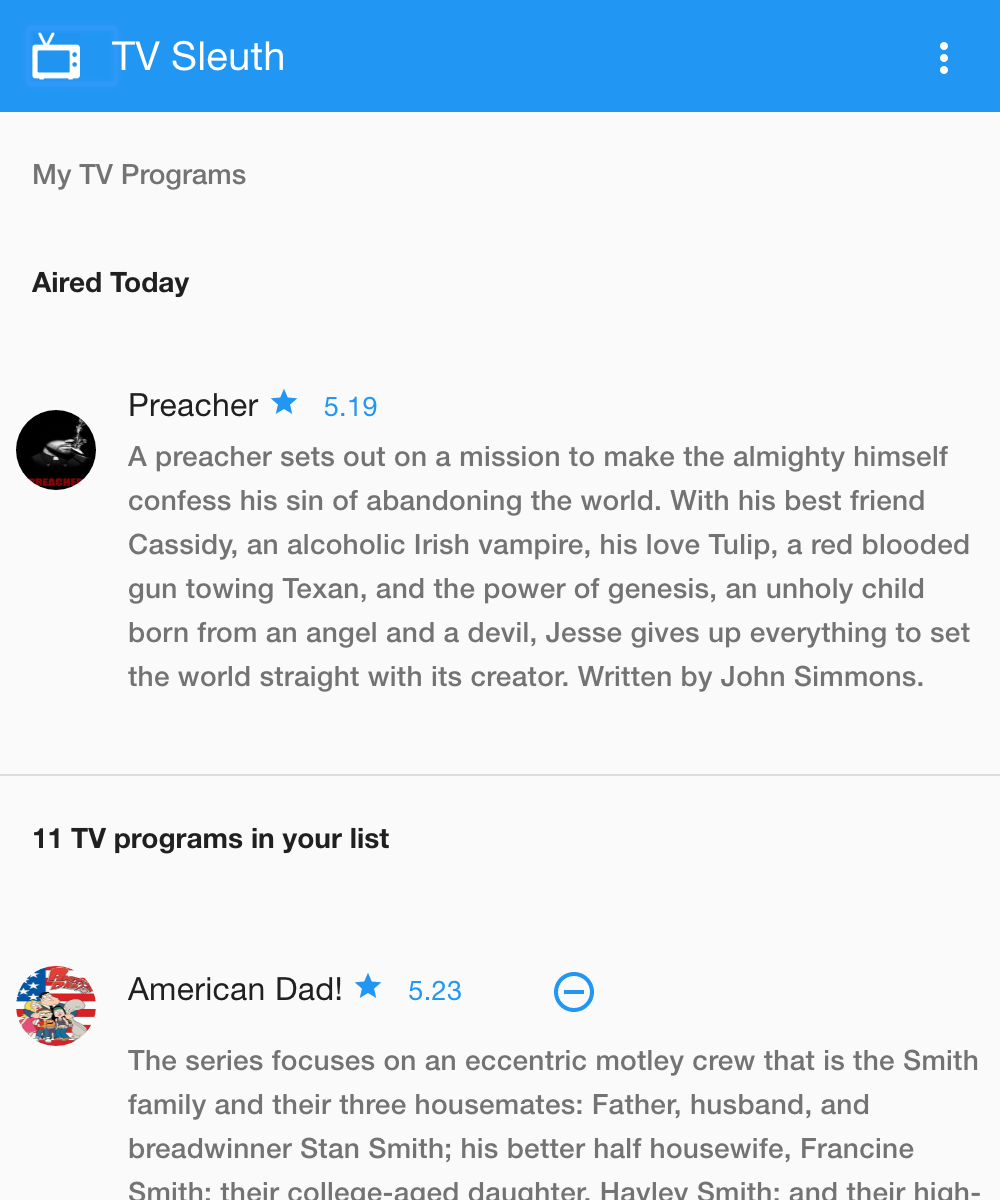
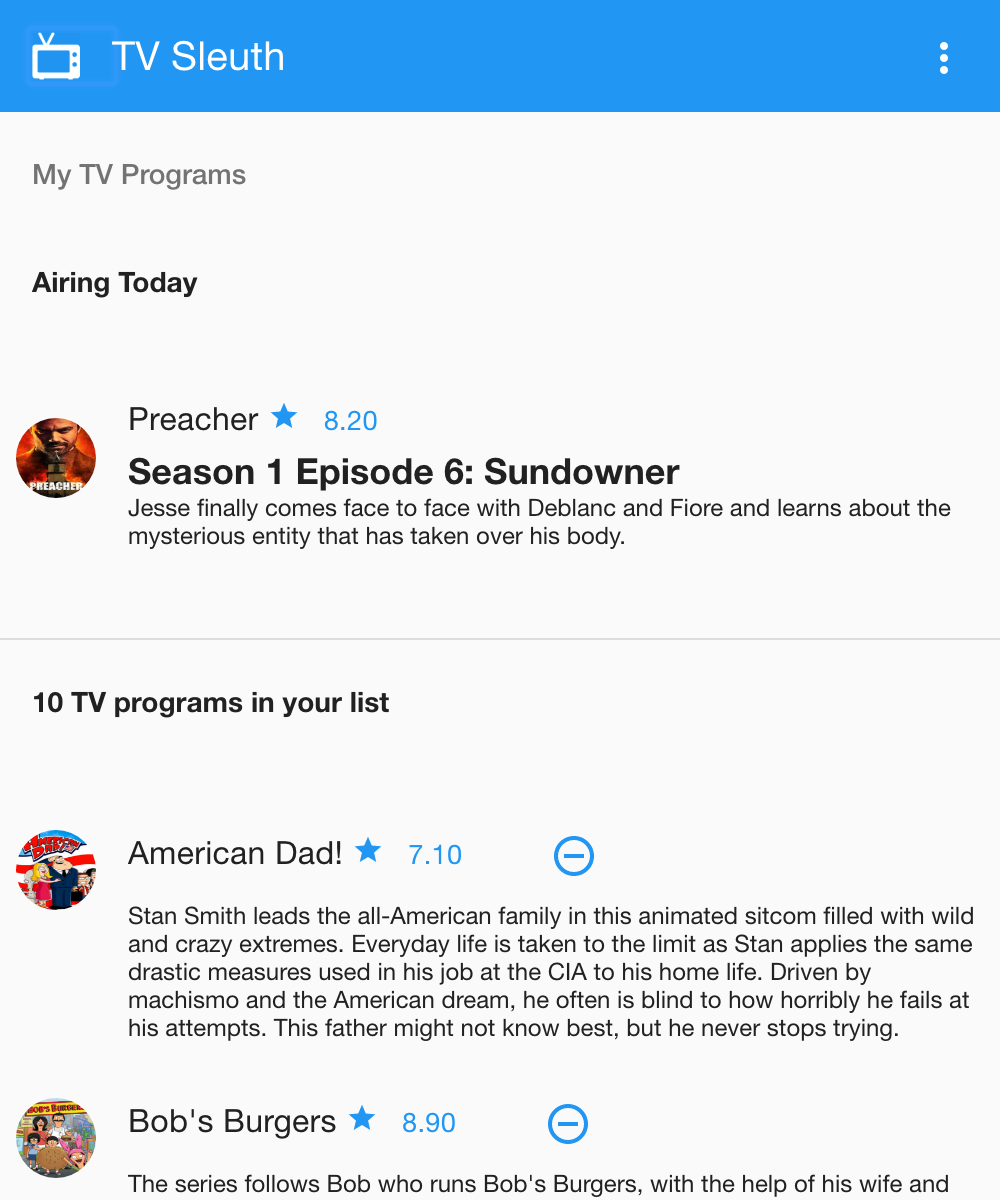
renaming and screenshot update

diff --git a/app/assets/javascripts/build/controllers.js b/app/assets/javascripts/build/controllers.js
@@ -27,12 +27,12 @@ app.controller("AppController", [
 
 app.controller("BackgroundAppController", [
   "$scope", "tvProgramService", "$interval", function($scope, tvProgramService, $interval) {
-    var airingLength, checkAiredTVPrograms, counter, halfHourInseconds, intervalInSeconds;
+    var airingLength, checkAiringTVPrograms, counter, halfHourInseconds, intervalInSeconds;
     airingLength = 0;
     halfHourInseconds = 1800;
     intervalInSeconds = 10;
     counter = (halfHourInseconds / intervalInSeconds) - 1;
-    checkAiredTVPrograms = function() {
+    checkAiringTVPrograms = function() {
       var r;
       ++counter;
       r = Math.floor((Math.random() * 255) + 1);
@@ -51,18 +51,18 @@ app.controller("BackgroundAppController", [
           text: "" + airingLength
         });
         return tvProgramService.airingToday().then((function(_this) {
-          return function(tvProgramsAiredToday) {
-            airingLength = tvProgramsAiredToday.length;
+          return function(tvProgramsAiringToday) {
+            airingLength = tvProgramsAiringToday.length;
             return chrome.browserAction.setBadgeText({
-              text: "" + tvProgramsAiredToday.length
+              text: "" + tvProgramsAiringToday.length
             });
           };
         })(this));
       }
     };
-    checkAiredTVPrograms();
+    checkAiringTVPrograms();
     return $interval((function() {
-      return checkAiredTVPrograms();
+      return checkAiringTVPrograms();
     }), 1000 * intervalInSeconds);
   }
 ]);

diff --git a/app/views/tv_programs/list.html b/app/views/tv_programs/list.html
@@ -17,7 +17,8 @@
           </md-button>
       </h3>
       <h2 ng-if="showEpisode">Season {{tvProgram.season}} Episode {{tvProgram.number}}: {{tvProgram.name}}</h2>
-      <p>{{tvProgram.show.summary | stripHTML}}</p>
+      <div ng-if="!showEpisode">{{tvProgram.show.summary | stripHTML}}</div>
+      <div ng-if="showEpisode">{{tvProgram.summary | stripHTML}}</div>
     </div>
   </md-list-item>
 </md-list>

diff --git a/app/views/tv_programs/index.html b/app/views/tv_programs/index.html
@@ -9,7 +9,7 @@
 
 <div ng-if="!loading">
   <md-content layout-padding ng-if="airingToday.length">
-    <h3>Aired Today</h3>
+    <h3>Airing Today</h3>
     <tv-programs-list tv-programs="airingToday" show-episode="::true"></tv-programs-list>
   </md-content>
   <md-divider ng-if="airingToday.length"></md-divider>

diff --git a/app/assets/javascripts/build/tv_programs/services.js b/app/assets/javascripts/build/tv_programs/services.js
@@ -167,6 +167,7 @@ app.service("tvProgramService", [
                   }
                 }
               }
+              console.debug(airing);
               return deferred.resolve(airing);
             };
           })(this));
